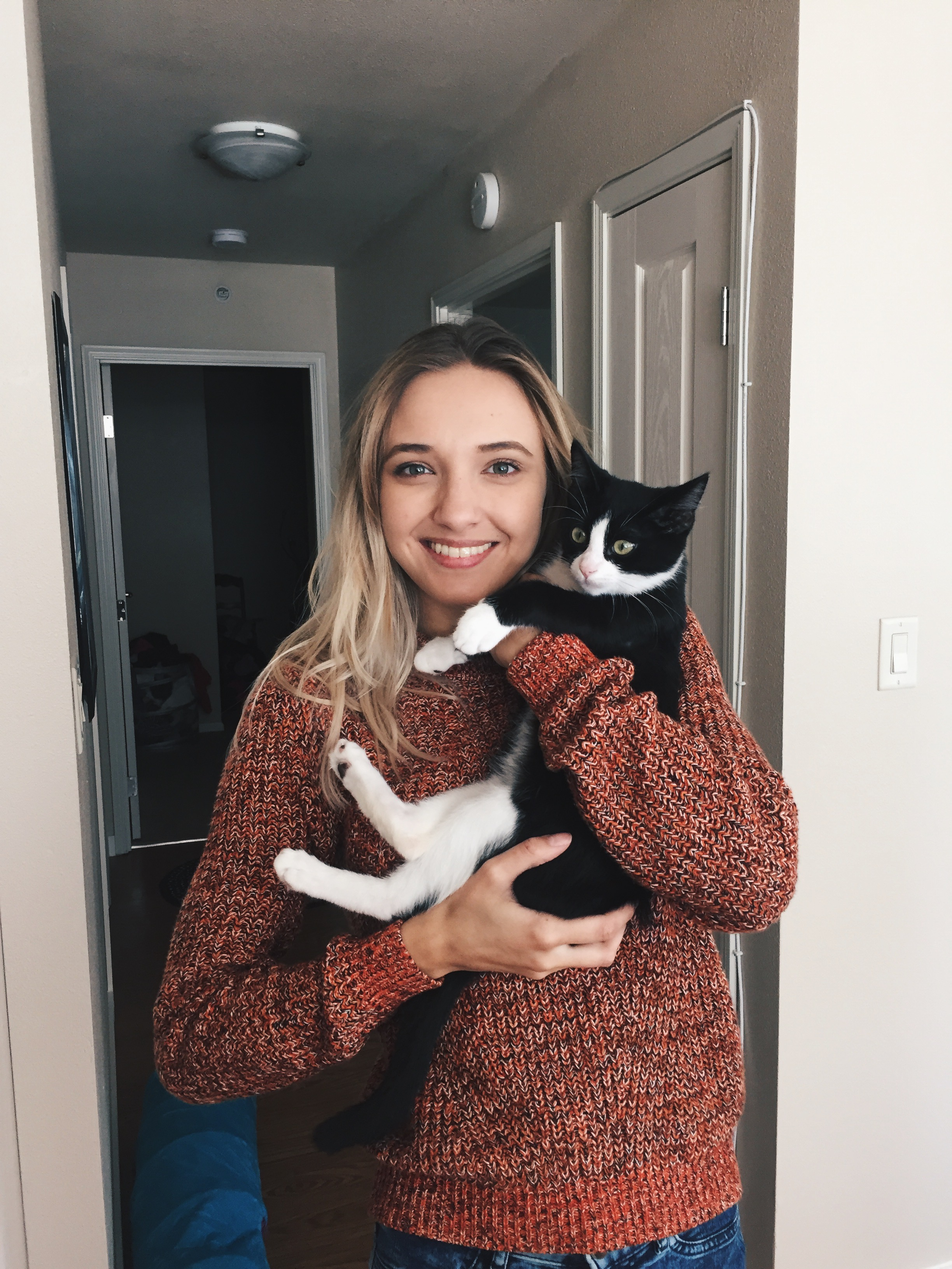
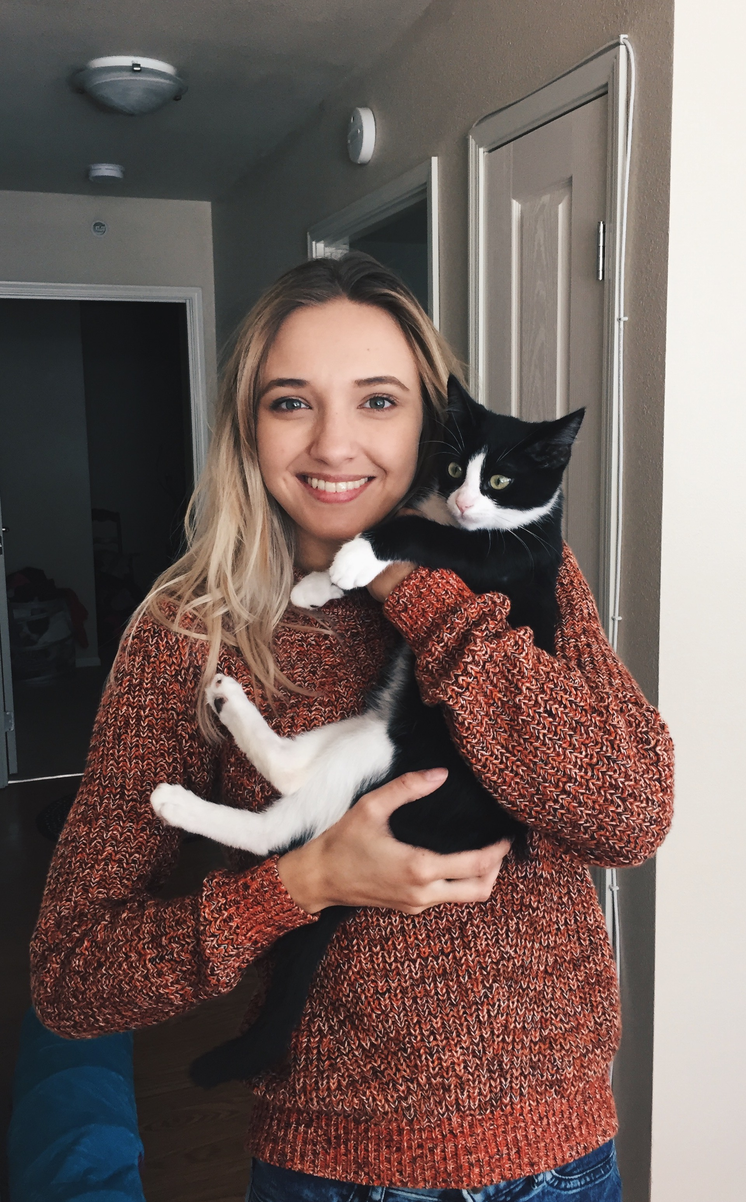
resizes image assets for performance

diff --git a/src/views/Portfolio.vue b/src/views/Portfolio.vue
@@ -135,6 +135,7 @@ export default {
     width: 1160px;
     margin: 30px auto;
     height: 2300px;
+    height: calc( 100% / 4 );
     padding: 30px 40px;
     background-color: rgba(245, 245, 245, 0.795);
     box-shadow: 0 4px 8px 0 rgba(0, 0, 0, 0.2), 0 6px 20px 0 rgba(0, 0, 0, 0.2);
@@ -171,7 +172,7 @@ export default {
 
     .columns {
       width: 890px;
-      height: 2850px;
+      height: 2900px;
     }
 
     .portfolio {
@@ -188,7 +189,7 @@ export default {
 
     .columns {
       width: 620px;
-      height: 4040px;
+      height: 4100px;
     }
   }
 
